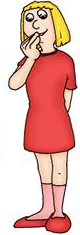
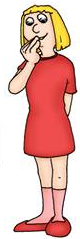
chore: use asymmetric cell insets to preserve tall characters like motion-a while fully removing grid pixels for whitespace trimming

diff --git a/scripts/extract_poster.py b/scripts/extract_poster.py
@@ -54,12 +54,19 @@ def process_poster(image_path, output_dir):
         c = i % cols
         letter = chr(ord('a') + i)
         
-        inset_x = int(cell_w * 0.06)
-        inset_y = int(cell_h * 0.05)
-        x1 = int(margin_x + c * cell_w) + inset_x
-        y1 = int(margin_y + r * cell_h) + inset_y
-        x2 = int(margin_x + (c + 1) * cell_w) - inset_x
-        y2 = int(margin_y + (r + 1) * cell_h) - inset_y
+        # Use asymmetric insets: 
+        # - Small top inset (2%) to preserve tall hats ('motion-a')
+        # - Large right (6%) and bottom (5%) insets to avoid stray yellow grid pixels ('motion-l')
+        # - Moderate left inset (4%) to avoid the left grid line
+        inset_left = int(cell_w * 0.04)
+        inset_right = int(cell_w * 0.06)
+        inset_top = int(cell_h * 0.02)
+        inset_bottom = int(cell_h * 0.05)
+        
+        x1 = int(margin_x + c * cell_w) + inset_left
+        y1 = int(margin_y + r * cell_h) + inset_top
+        x2 = int(margin_x + (c + 1) * cell_w) - inset_right
+        y2 = int(margin_y + (r + 1) * cell_h) - inset_bottom
         
         cell = img.crop((x1, y1, x2, y2))
         split_x = find_split(cell)
